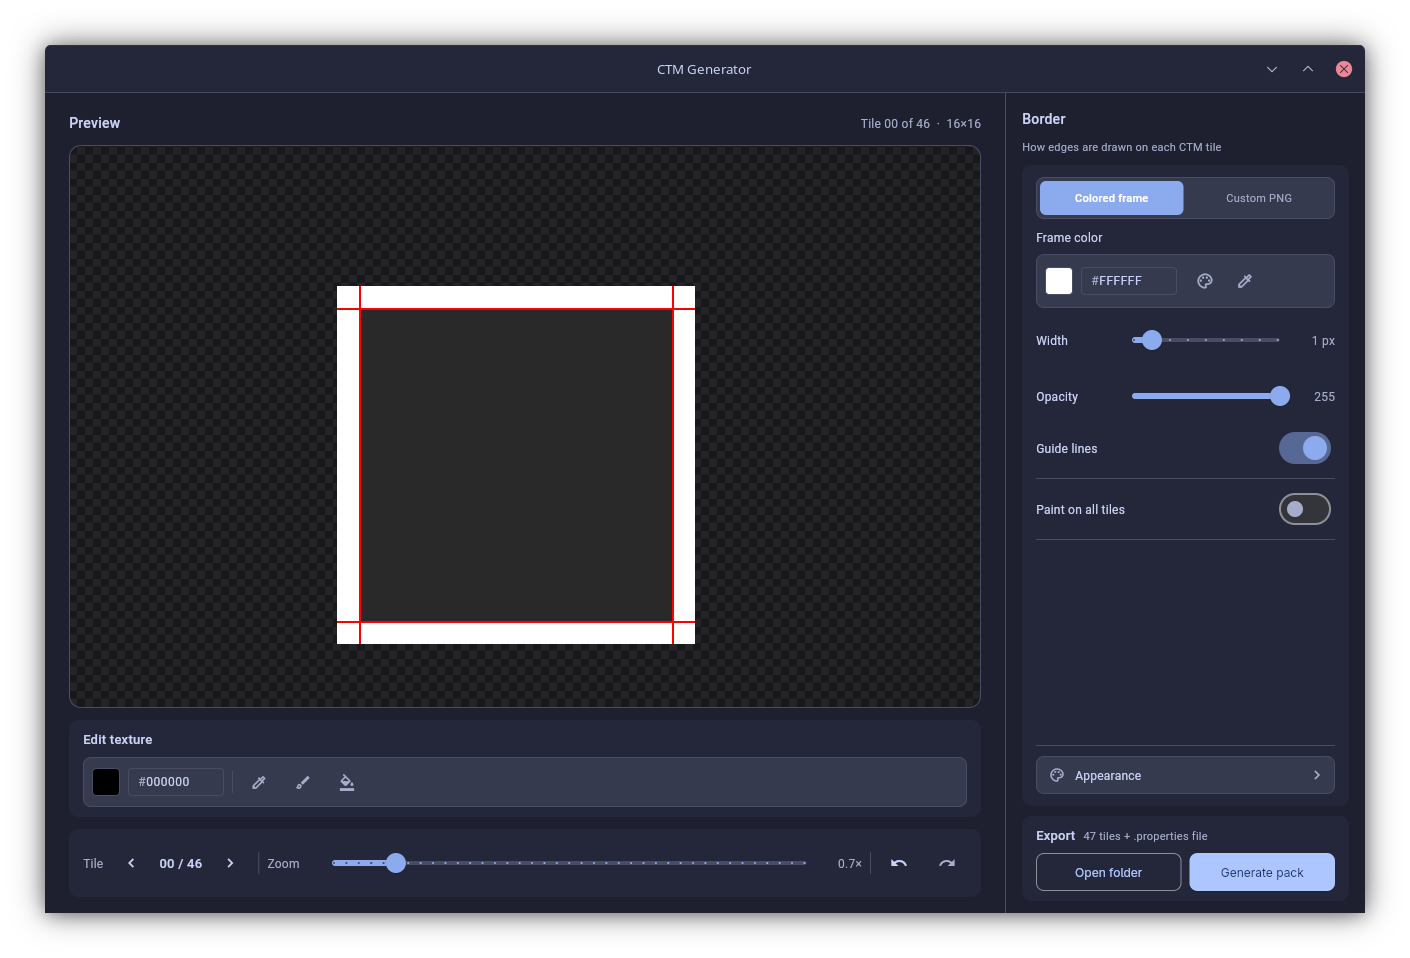
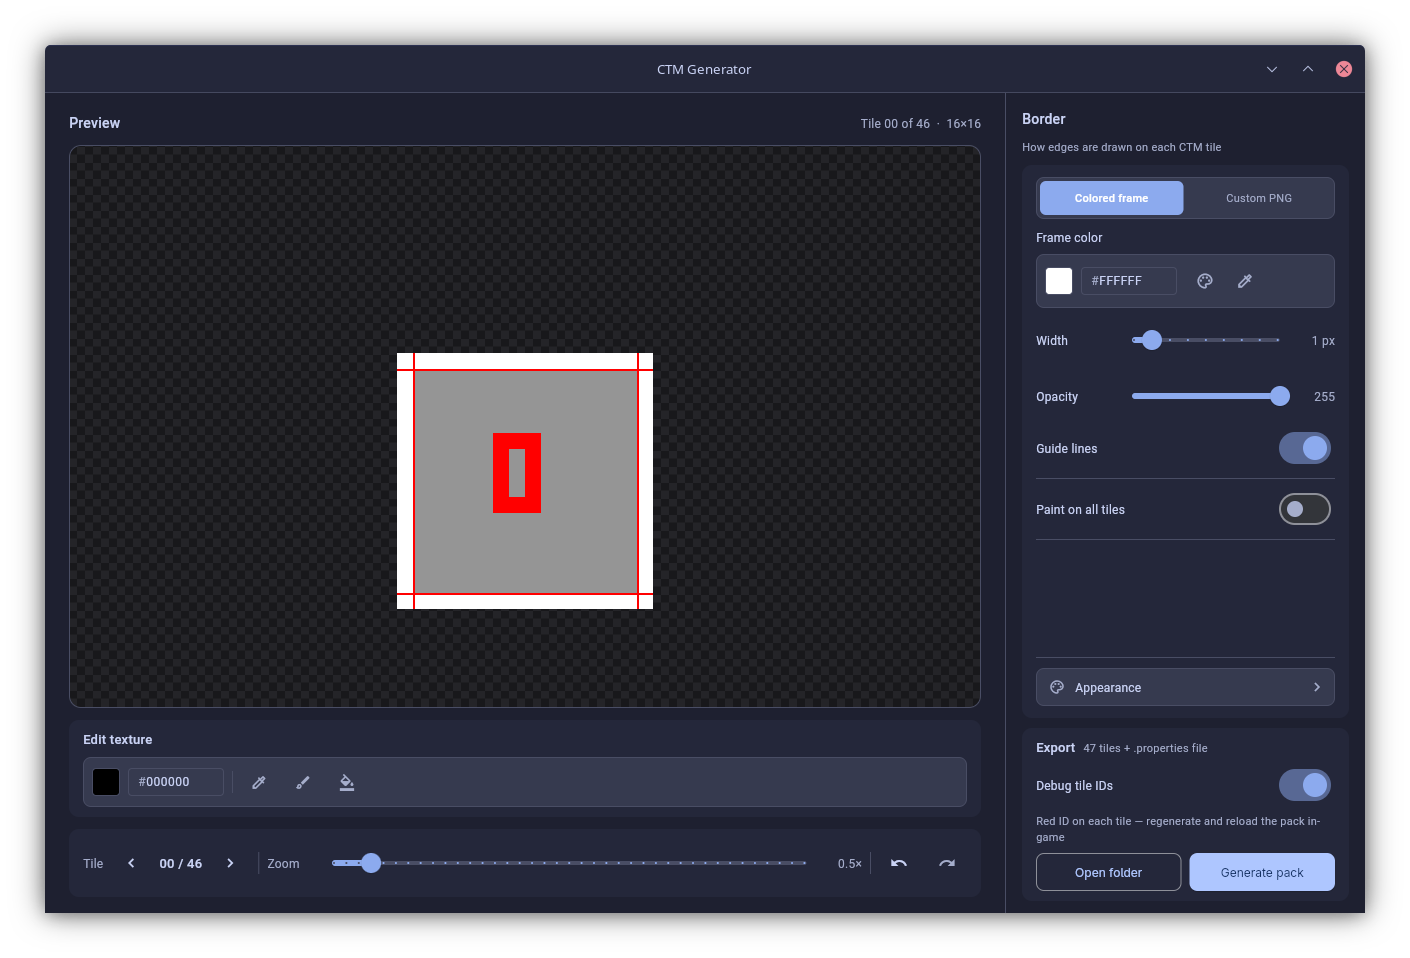
cAdd debug tile ID export mode for in-game CTM troubleshooting.
Stamp each tile with a crisp red index when enabled, and document the workflow in the README.

diff --git a/main.py b/main.py
@@ -350,6 +350,66 @@ CTM_RULES = [
     (1, 1, 1, 1, 0, 0, 0, 0),
 ]
 
+# 3×5 pixel digits — no anti-aliasing, solid red only
+_DIGIT_3X5 = {
+    "0": ("###", "#.#", "#.#", "#.#", "###"),
+    "1": (".#.", "##.", ".#.", ".#.", "###"),
+    "2": ("###", "..#", "###", "#..", "###"),
+    "3": ("###", "..#", "###", "..#", "###"),
+    "4": ("#.#", "#.#", "###", "..#", "..#"),
+    "5": ("###", "#..", "###", "..#", "###"),
+    "6": ("###", "#..", "###", "#.#", "###"),
+    "7": ("###", "..#", "..#", "..#", "..#"),
+    "8": ("###", "#.#", "###", "#.#", "###"),
+    "9": ("###", "#.#", "###", "..#", "###"),
+}
+_DIGIT_W = 3
+_DIGIT_H = 5
+_DIGIT_GAP = 1
+
+
+def _render_pixel_digits(text, scale):
+    count = len(text)
+    raw_w = count * _DIGIT_W + (count - 1) * _DIGIT_GAP
+    raw_h = _DIGIT_H
+    layer = Image.new("RGBA", (raw_w, raw_h), (0, 0, 0, 0))
+    px = layer.load()
+    red = (255, 0, 0, 255)
+    for i, ch in enumerate(text):
+        glyph = _DIGIT_3X5[ch]
+        ox = i * (_DIGIT_W + _DIGIT_GAP)
+        for row, line in enumerate(glyph):
+            for col, cell in enumerate(line):
+                if cell == "#":
+                    px[ox + col, row] = red
+    if scale > 1:
+        layer = layer.resize(
+            (raw_w * scale, raw_h * scale), Image.Resampling.NEAREST
+        )
+    return layer
+
+
+def overlay_tile_index(image, index, border_width=0):
+    img = image.copy()
+    w, h = img.size
+    bw = max(0, int(border_width))
+    inner_l = bw
+    inner_t = bw
+    inner_r = w - bw
+    inner_b = h - bw
+    inner_w = max(1, inner_r - inner_l)
+    inner_h = max(1, inner_b - inner_t)
+
+    text = str(index)
+    raw_w = len(text) * _DIGIT_W + (len(text) - 1) * _DIGIT_GAP
+    max_scale = max(1, min(inner_w // raw_w, inner_h // _DIGIT_H))
+    scale = max(1, max_scale // 2)
+    digits = _render_pixel_digits(text, scale)
+    dx = inner_l + (inner_w - digits.width) // 2
+    dy = inner_t + (inner_h - digits.height) // 2
+    img.paste(digits, (dx, dy), digits)
+    return img
+
 
 def rgb_to_hex(rgb):
     r, g, b = rgb
@@ -701,6 +761,7 @@ class CTMEngine:
         self.preview_tile = 0
         self.use_custom_outline = False
         self.show_guides = True
+        self.debug_tile_labels = False
         self.last_save_directory = load_last_save_directory()
         self.preview_pan_x = 0.0
         self.preview_pan_y = 0.0
@@ -865,6 +926,10 @@ class CTMEngine:
         tile_idx = max(0, min(46, int(self.preview_tile)))
         self.preview_tile = tile_idx
         preview_img = self.create_tile(CTM_RULES[tile_idx], tile_idx)
+        if self.debug_tile_labels:
+            preview_img = overlay_tile_index(
+                preview_img, tile_idx, self.border_width
+            )
 
         display_scale = PREVIEW_TEXEL_SCALE * self.zoom
         new_w = min(int(preview_img.width * display_scale), PREVIEW_MAX_PX)
@@ -1059,7 +1124,10 @@ class CTMEngine:
         out_path = os.path.join(save_dir, self.base_filename)
         os.makedirs(out_path, exist_ok=True)
         for i, rule in enumerate(CTM_RULES):
-            self.create_tile(rule, tile_idx=i).save(os.path.join(out_path, f"{i}.png"))
+            tile_img = self.create_tile(rule, tile_idx=i)
+            if self.debug_tile_labels:
+                tile_img = overlay_tile_index(tile_img, i, self.border_width)
+            tile_img.save(os.path.join(out_path, f"{i}.png"))
         with open(os.path.join(out_path, f"{self.base_filename}.properties"), "w") as f:
             f.write(f"matchTiles={self.base_filename}\n")
             f.write("method=ctm\n")
@@ -1224,6 +1292,12 @@ def main(page: ft.Page):
         active_color=C_ACCENT,
         inactive_thumb_color=C_MUTED,
         on_change=lambda e: on_guides_change(e),
+    )
+    debug_tile_ids_switch = ft.Switch(
+        value=False,
+        active_color=C_ACCENT,
+        inactive_thumb_color=C_MUTED,
+        on_change=lambda e: on_debug_tile_ids_change(e),
     )
     EXPORT_BTN_H = 38
     export_btn_style = ft.ButtonStyle(
@@ -2445,6 +2519,10 @@ def main(page: ft.Page):
         engine.show_guides = e.control.value
         refresh_preview()
 
+    def on_debug_tile_ids_change(e):
+        engine.debug_tile_labels = e.control.value
+        refresh_preview()
+
     def sync_border_mode_ui():
         color_active = not engine.use_custom_outline
         mode_color_tab.bgcolor = C_ACCENT if color_active else None
@@ -2938,6 +3016,12 @@ def main(page: ft.Page):
         size=11,
         color=C_MUTED,
     )
+    debug_tile_ids_label = ft.Text("Debug tile IDs", size=12, color=C_TEXT, expand=True)
+    debug_tile_ids_hint = ft.Text(
+        "Red ID on each tile — regenerate and reload the pack in-game",
+        size=11,
+        color=C_MUTED,
+    )
     pack_card = ft.Container(
         bgcolor=C_SURFACE,
         border_radius=10,
@@ -2952,6 +3036,14 @@ def main(page: ft.Page):
                     spacing=8,
                     vertical_alignment=ft.CrossAxisAlignment.CENTER,
                 ),
+                ft.Row(
+                    [
+                        debug_tile_ids_label,
+                        debug_tile_ids_switch,
+                    ],
+                    vertical_alignment=ft.CrossAxisAlignment.CENTER,
+                ),
+                debug_tile_ids_hint,
                 ft.Row(
                     [open_folder_btn, generate_btn],
                     spacing=8,

diff --git a/README.md b/README.md
@@ -28,6 +28,7 @@ Drop your own screenshot in as `assets/demo.png` whenever you want to update thi
 * **Custom PNG mode:** Bring your own hand-drawn frame texture; the tool handles the slicing logic.
 * **Paint tools:** Pick, brush, and fill on the loaded texture, with undo/redo.
 * **Guide overlay:** Optional red lines show exactly where borders get cut.
+* **Debug tile IDs:** Optional export mode stamps each tile with its index (`0`–`46`) in bright red — load the pack in-game to see which CTM tile OptiFine picks on each face.
 * **Themes:** Moonlight, Light, Dark, Obsidian, Catppuccin, Dracula, and Nord — palettes adapted from [Moonlight](https://github.com/oNxZero/Moonlight).
 * **Inline status:** Save confirmations show next to the preview (`Saved to /path/to/pack`).
 
@@ -65,6 +66,8 @@ Zoom in, toggle **Show guide lines**, and use the paint toolbar if you need smal
 ### 4. Generate the pack
 
 Click **Generate pack**, pick an output folder, and the app creates a subfolder with all 47 tiles and the properties file.
+
+Turn on **Debug tile IDs** (in the Export panel) when troubleshooting CTM in-game. Each exported tile gets a small red pixel number centered inside the border area. Place blocks in Minecraft, note which numbers appear on broken faces, then turn debug off and regenerate a clean pack when you're done.
 
 ### 5. Drop it in your resource pack
 